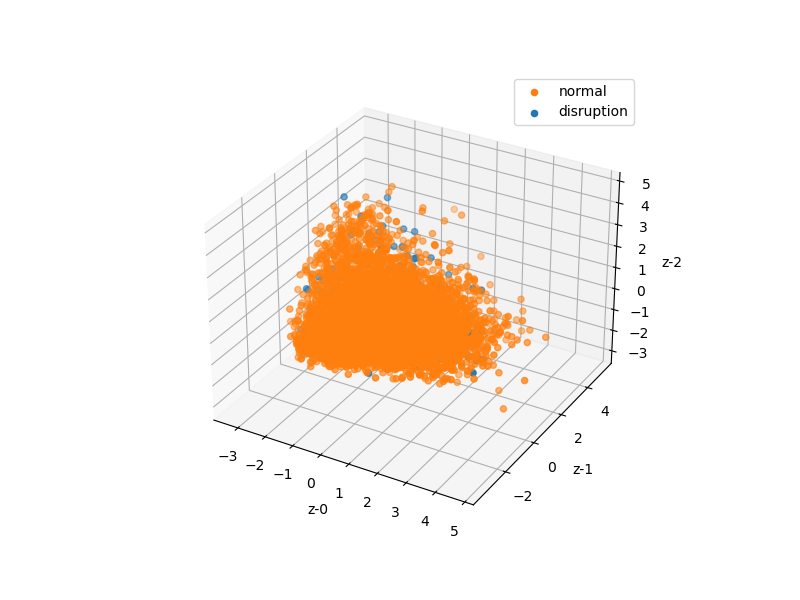
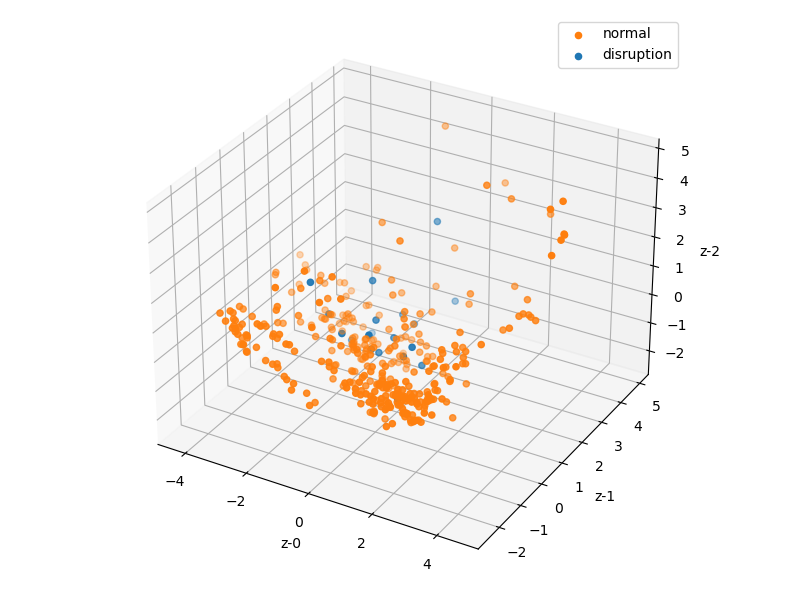
update visualization code : Decision boundary plot

diff --git a/src/visualization/visualize_latent_space.py b/src/visualization/visualize_latent_space.py
@@ -6,21 +6,25 @@ from torch.utils.data import DataLoader, Dataset
 from sklearn.decomposition import PCA
 from sklearn.manifold import TSNE
 from tqdm.auto import tqdm
+from scipy.interpolate import SmoothBivariateSpline
+from sklearn.linear_model import LogisticRegression
 
-def visualize_2D_latent_space(model : nn.Module, dataloader : DataLoader, device : str = 'cpu', save_dir : str = './results/latent_2d_space.png'):
+def visualize_2D_latent_space(model : nn.Module, dataloader : DataLoader, device : str = 'cpu', save_dir : str = './results/latent_2d_space.png', limit_iters : int = 2):
     model.to(device)
     model.eval()
     
     total_label = np.array([])
     total_latent = []
         
-    for idx, (data, target) in enumerate(dataloader):
+    for idx, (data, target) in enumerate(tqdm(dataloader, desc="visualize 2D latent space")):
         with torch.no_grad():
-            data = data.to(device)
-            latent = model.encode(data)
+            latent = model.encode(data.to(device))
             batch = data.size()[0]
             total_latent.append(latent.detach().cpu().numpy().reshape(batch,-1))
             total_label = np.concatenate((total_label, target.detach().cpu().numpy().reshape(-1,)), axis = 0)
+            
+        if limit_iters >0 and idx + 1 > limit_iters:
+            break
     
     total_latent = np.concatenate(total_latent, axis = 0)
     total_label = total_label.astype(int)
@@ -29,8 +33,10 @@ def visualize_2D_latent_space(model : nn.Module, dataloader : DataLoader, device
     label  = np.array(['disruption','normal'])
     
     # using PCA
+    print("Dimension reduction process : start")
     pca = PCA(n_components=2, random_state=42)
     total_latent = pca.fit_transform(total_latent)
+    print("Dimension reduction process : complete")
     
     # using t-SNE
     # tSNE = TSNE(n_components=2, perplexity = 64)
@@ -45,23 +51,32 @@ def visualize_2D_latent_space(model : nn.Module, dataloader : DataLoader, device
     plt.xlabel('z-0')
     plt.ylabel('z-1')
     plt.legend()
+    plt.tight_layout()
     plt.savefig(save_dir)
     
-def visualize_3D_latent_space(model : nn.Module, dataloader : DataLoader, device : str = 'cpu', save_dir : str = './results/latent_2d_space.png'):
+# revised : visualize 2D latent space and decision boundary at once
+def visualize_2D_decision_boundary(model : nn.Module, dataloader : DataLoader, device : str = 'cpu', save_dir : str = './results/decision_boundary_2D_space.png', limit_iters : int = 2):
     model.to(device)
     model.eval()
     
     total_label = np.array([])
+    total_probs = []
     total_latent = []
         
-    for idx, (data, target) in enumerate(dataloader):
+    for idx, (data, target) in enumerate(tqdm(dataloader, desc="visualize 2D latent space with decision boundary")):
         with torch.no_grad():
-            data = data.to(device)
-            latent = model.encode(data)
+            latent = model.encode(data.to(device))
+            probs = model(data.to(device))
+            probs = torch.nn.functional.softmax(probs, dim = 1)[:,0]
+            probs = probs.cpu().detach().numpy().tolist()
+        
             batch = data.size()[0]
-            
             total_latent.append(latent.detach().cpu().numpy().reshape(batch,-1))
             total_label = np.concatenate((total_label, target.detach().cpu().numpy().reshape(-1,)), axis = 0)
+            total_probs.extend(probs)
+            
+        if limit_iters >0 and idx + 1 > limit_iters:
+            break
     
     total_latent = np.concatenate(total_latent, axis = 0)
     total_label = total_label.astype(int)
@@ -70,8 +85,69 @@ def visualize_3D_latent_space(model : nn.Module, dataloader : DataLoader, device
     label  = np.array(['disruption','normal'])
     
     # using PCA
+    print("Dimension reduction process : start")
+    pca = PCA(n_components=2, random_state=42)
+    total_latent = pca.fit_transform(total_latent)
+    
+    print("Dimension reduction process : complete")
+    
+    # meshgrid
+    latent_x, latent_y = total_latent[:,0], total_latent[:,1]
+    latent_x, latent_y = np.meshgrid(latent_x, latent_y)
+    
+    interpolate_fn = SmoothBivariateSpline(latent_x[0,:], latent_y[:,0], np.array(total_probs))
+    probs_z = interpolate_fn(latent_x, latent_y, grid = False)
+    probs_z = np.clip(probs_z, 0, 1)
+    
+    dis_idx = np.where(total_label == 0)
+    normal_idx = np.where(total_label == 1)
+    
+    level = np.linspace(0,1.0,8)
+    plt.figure(figsize = (8,6))
+    plt.contourf(latent_x, latent_y, probs_z, level = level, cmap = plt.cm.coolwarm)
+    
+    mp = plt.cm.ScalarMappable(cmap = plt.cm.coolwarm)
+    mp.set_array(probs_z)
+    mp.set_clim(0, 1.0)
+    
+    plt.colorbar(mp, boundaries = np.linspace(0,1,5))
+    plt.scatter(total_latent[normal_idx,0], total_latent[normal_idx,1], c = color[1], label = label[1])
+    plt.scatter(total_latent[dis_idx,0], total_latent[dis_idx,1], c = color[0], label = label[0])
+    plt.xlabel('z-0')
+    plt.ylabel('z-1')
+    plt.legend()
+    plt.tight_layout()
+    plt.savefig(save_dir)
+    
+def visualize_3D_latent_space(model : nn.Module, dataloader : DataLoader, device : str = 'cpu', save_dir : str = './results/latent_2d_space.png', limit_iters : int = 2):
+    model.to(device)
+    model.eval()
+    
+    total_label = np.array([])
+    total_latent = []
+        
+    for idx, (data, target) in enumerate(tqdm(dataloader, desc = "visualize 3D latent space")):
+        with torch.no_grad():
+            latent = model.encode(data.to(device))
+            batch = data.size()[0]
+            
+            total_latent.append(latent.detach().cpu().numpy().reshape(batch,-1))
+            total_label = np.concatenate((total_label, target.detach().cpu().numpy().reshape(-1,)), axis = 0)
+            
+        if limit_iters > 0 and idx + 1 > limit_iters:
+            break
+    
+    total_latent = np.concatenate(total_latent, axis = 0)
+    total_label = total_label.astype(int)
+    
+    color = np.array(['#1f77b4', '#ff7f0e'])
+    label  = np.array(['disruption','normal'])
+    
+    # using PCA
+    print("Dimension reduction process : start")
     pca = PCA(n_components=3, random_state=42)
     total_latent = pca.fit_transform(total_latent)
+    print("Dimension reduction process : complete")
     
     # using t-SNE
     # tSNE = TSNE(n_components=3, perplexity = 64)
@@ -89,4 +165,5 @@ def visualize_3D_latent_space(model : nn.Module, dataloader : DataLoader, device
     ax.set_ylabel('z-1')
     ax.set_zlabel('z-2')
     ax.legend()
+    fig.tight_layout()
     plt.savefig(save_dir)

diff --git a/train_transformer.py b/train_transformer.py
@@ -7,7 +7,7 @@ from src.dataset import DatasetFor0D
 from torch.utils.data import DataLoader, RandomSampler
 from src.utils.sampler import ImbalancedDatasetSampler
 from src.utils.utility import preparing_0D_dataset, plot_learning_curve, generate_prob_curve_from_0D, seed_everything
-from src.visualization.visualize_latent_space import visualize_2D_latent_space, visualize_3D_latent_space
+from src.visualization.visualize_latent_space import visualize_2D_latent_space, visualize_3D_latent_space, visualize_2D_decision_boundary
 from src.visualization.visualize_application import generate_real_time_experiment_0D
 from src.train import train
 from src.evaluate import evaluate
@@ -55,7 +55,7 @@ def parsing():
     
     # early stopping
     parser.add_argument('--early_stopping', type = bool, default = True)
-    parser.add_argument("--early_stopping_patience", type = int, default = 32)
+    parser.add_argument("--early_stopping_patience", type = int, default = 40)
     parser.add_argument("--early_stopping_verbose", type = bool, default = True)
     parser.add_argument("--early_stopping_delta", type = float, default = 1e-3)
 
@@ -295,6 +295,7 @@ if __name__ == "__main__":
         os.path.join(save_dir, "{}_feature_importance.png".format(tag))
     )
     
+    
     # Additional analyzation
     print("\n====================== Visualization process ======================\n")
     
@@ -302,6 +303,7 @@ if __name__ == "__main__":
         train_loader = DataLoader(train_data, batch_size = args['batch_size'], sampler=None, num_workers = args["num_workers"], pin_memory=args["pin_memory"])
     
     try:
+        
         visualize_2D_latent_space(
             model, 
             train_loader,
@@ -309,11 +311,27 @@ if __name__ == "__main__":
             os.path.join(save_dir, "{}_2D_latent_train.png".format(tag))
         )
         
+        
         visualize_2D_latent_space(
             model, 
             test_loader,
             device,
             os.path.join(save_dir, "{}_2D_latent_test.png".format(tag))
+        )
+        
+        
+        visualize_2D_decision_boundary(
+            model, 
+            train_loader,
+            device,
+            os.path.join(save_dir, "{}_2D_decision_boundary_train.png".format(tag))
+        )
+        
+        visualize_2D_decision_boundary(
+            model, 
+            test_loader,
+            device,
+            os.path.join(save_dir, "{}_2D_decision_boundary_test.png".format(tag))
         )
         
     except:

diff --git a/src/models/transformer.py b/src/models/transformer.py
@@ -64,6 +64,11 @@ class Transformer(nn.Module):
         )
         
         self.transformer_encoder = nn.TransformerEncoder(encoder, num_layers=n_layers)
+        self.connector = nn.Sequential(
+            nn.Linear(feature_dims, feature_dims),
+            nn.GELU()
+        )
+        
         self.classifier = nn.Sequential(
             nn.Linear(feature_dims, cls_dims),
             nn.BatchNorm1d(cls_dims),
@@ -83,6 +88,7 @@ class Transformer(nn.Module):
         
             x = self.pos_enc(x)
             x = self.transformer_encoder(x, self.src_mask.to(x.device)).permute(1,0,2).mean(dim = 1)
+            x = self.connector(x)
         return x
 
     def forward(self, x : torch.Tensor):
@@ -98,7 +104,7 @@ class Transformer(nn.Module):
             self.src_mask = mask
         x = self.pos_enc(x)
         x = self.transformer_encoder(x, self.src_mask.to(x.device)).permute(1,0,2).mean(dim = 1) # (seq_len, batch, feature_dims)
-        
+        x = self.connector(x)
         # Generative classifier
         x = self.classifier(x)
         return x
@@ -142,6 +148,10 @@ class TransformerEncoder(nn.Module):
         )
         
         self.transformer_encoder = nn.TransformerEncoder(encoder, num_layers=n_layers)
+        self.connector = nn.Sequential(
+            nn.Linear(feature_dims, feature_dims),
+            nn.GELU()
+        )
         
     def forward(self, x : torch.Tensor):
         # Transformer Encoder
@@ -155,6 +165,7 @@ class TransformerEncoder(nn.Module):
             self.src_mask = mask
         x = self.pos_enc(x)
         x = self.transformer_encoder(x, self.src_mask.to(x.device)).permute(1,0,2).mean(dim = 1) # (seq_len, batch, feature_dims)
+        x = self.connector(x)
         
         return x
 

diff --git a/train_bayes_transformer.py b/train_bayes_transformer.py
@@ -7,7 +7,7 @@ from src.dataset import DatasetFor0D
 from torch.utils.data import DataLoader, RandomSampler
 from src.utils.sampler import ImbalancedDatasetSampler
 from src.utils.utility import preparing_0D_dataset, plot_learning_curve, generate_prob_curve_from_0D, seed_everything
-from src.visualization.visualize_latent_space import visualize_2D_latent_space, visualize_3D_latent_space
+from src.visualization.visualize_latent_space import visualize_2D_latent_space, visualize_3D_latent_space, visualize_2D_decision_boundary
 from src.visualization.visualize_application import generate_real_time_experiment_0D
 from src.train_bayes import train
 from src.evaluate import evaluate
@@ -319,6 +319,20 @@ if __name__ == "__main__":
             test_loader,
             device,
             os.path.join(save_dir, "{}_2D_latent_test.png".format(tag))
+        )
+        
+        visualize_2D_decision_boundary(
+            model, 
+            train_loader,
+            device,
+            os.path.join(save_dir, "{}_2D_decision_boundary_train.png".format(tag))
+        )
+        
+        visualize_2D_decision_boundary(
+            model, 
+            test_loader,
+            device,
+            os.path.join(save_dir, "{}_2D_decision_boundary_test.png".format(tag))
         )
         
     except:
